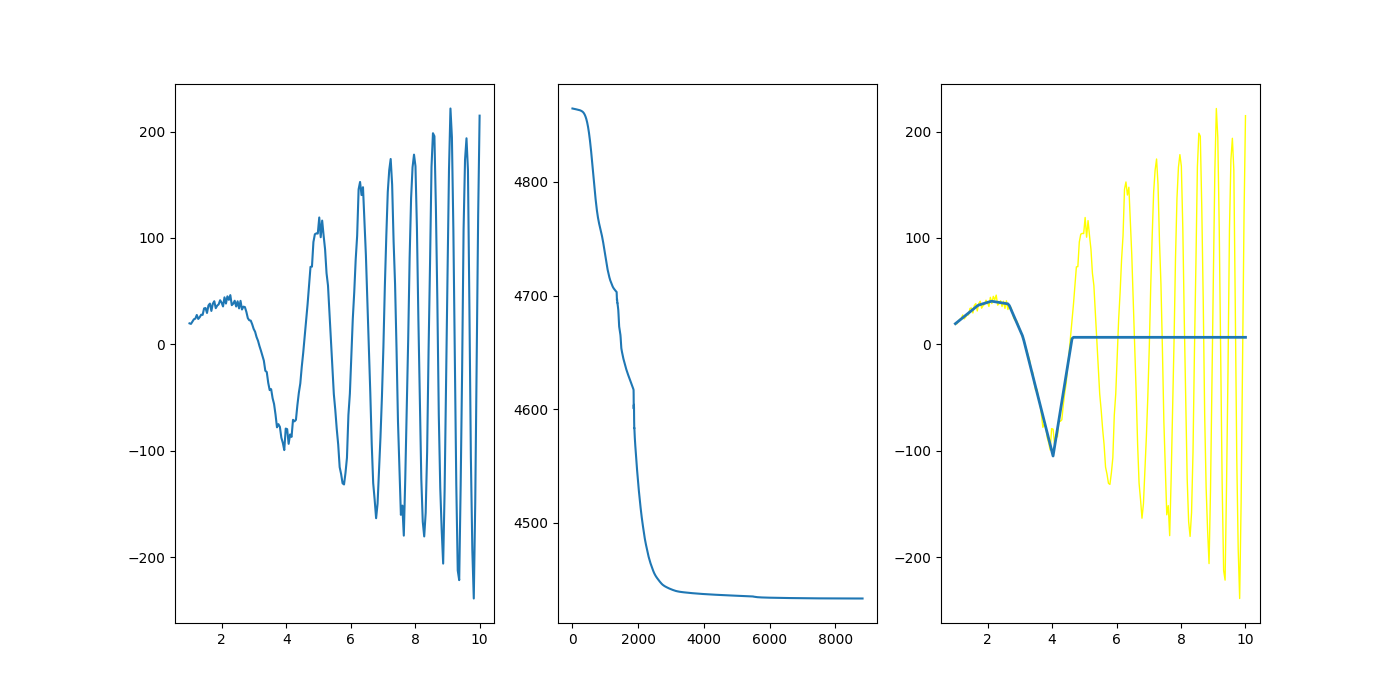
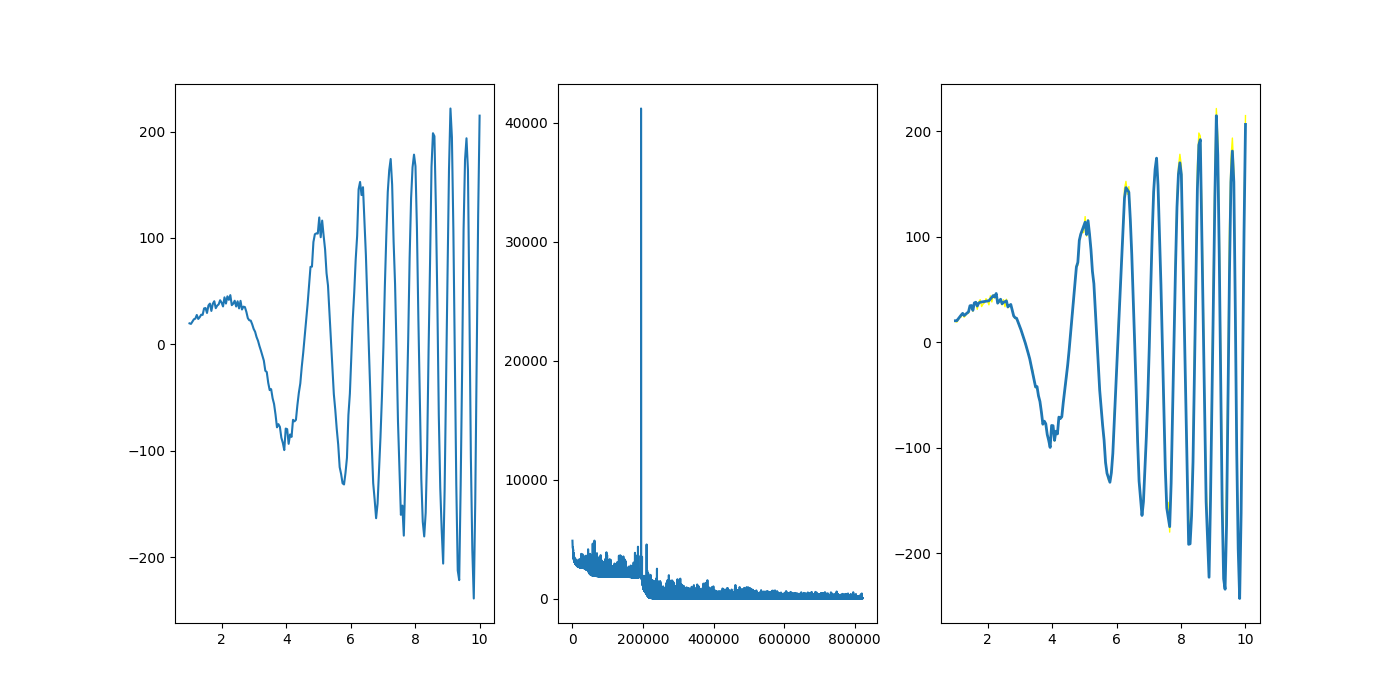
sim 2

diff --git a/main.py b/main.py
@@ -36,10 +36,9 @@ regr2_sim3 = MLPRegressor(hidden_layer_sizes=(60,50),max_iter=16000,activation='
 
 regr5_sim1 = MLPRegressor(hidden_layer_sizes=(30,20,10),max_iter=322000,activation='relu',solver='adam',learning_rate='adaptive',n_iter_no_change=3200)
 
-regr5_sim2 = MLPRegressor(hidden_layer_sizes=(60,70,50,20),max_iter=322000,activation='relu',solver='adam',learning_rate='adaptive',n_iter_no_change=5000)
+regr5_sim2 = MLPRegressor(hidden_layer_sizes=(80,70,60,20),max_iter=822000,activation='relu',solver='adam',learning_rate='adaptive',n_iter_no_change=32000)
 
 regr5_sim3 = MLPRegressor(hidden_layer_sizes=(80,40),max_iter=82000,activation='relu',solver='adam',learning_rate='adaptive',n_iter_no_change=1400)
-
 
 regr = regr5_sim2
 
@@ -79,7 +78,7 @@ for i in range(1):
     plt.plot(x,y_est,linewidth=2)
 
     #plt.show()
-    plt.savefig(f'./imagens/teste5/sim1/E{i+1}.png')
+    plt.savefig(f'./imagens/teste5/sim2/E{i+1}.png')
 
 media = media / 10
 
